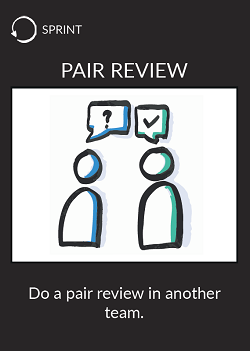
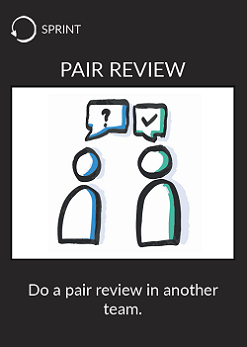
Add dev images

diff --git a/dev/Readme.md b/dev/Readme.md
@@ -1,14 +1,18 @@
 # Dev  
-* [Clean some "dead" or "crappy" code](clean-code.md)
-* [Write 5 unit tests](write-5-unit-tests.md)
-* [Write 3 BDD tests](write-3-BDD-scenarios.md)
-* [Organize a code kata session](code-kata.md)
-* [Automate an actual manual task](automate-task.md)
-* [Konami code](konami.md)
-* [Do an exercise on the coding game web site](condingame.md)
-* [Pair-op](pair-op.md)
-* [Identify & refactor legacy code](refactor-legacy-code.md)
-* [Agile swarming](swarming.md)
-* [Open source](open-source.md)
-* [Cloud](cloud.md)
-* [Fizzbuzz](fizz-buzz.md)
+[![Clean some "dead" or "crappy" code](images/clean-code.png)](clean-code.md)
+[![Write 5 unit tests](images/write-5-unit-tests.png)](write-5-unit-tests.md)
+[![Write 3 BDD scenarios](images/write-3-BDD-scenarios.png)](write-3-BDD-scenarios.md)
+[![Organize a code kata session](images/code-kata.png)](code-kata.md)
+[![Automate an actual manual task](images/automate-task.png)](automate-task.md)
+[![Konami code](images/konami.png)](konami.md)
+[![Do an exercise on the coding game web site](images/condingame.png)](condingame.md)
+[![Pair-op](images/pair-op.png)](pair-op.md)
+[![Identify & refactor legacy code](images/refactor-legacy-code.png)](refactor-legacy-code.md)
+[![Agile swarming](images/swarming.png)](swarming.md)
+[![Open source](images/open-source.png)](open-source.md)
+[![Cloud](images/cloud.png)](cloud.md)
+[![Fizzbuzz](images/fizz-buzz.png)](fizz-buzz.md)
+
+# Print the cards
+* [Recto](../cards/dev-recto.pdf)  
+* [Verso](../cards/dev-verso.pdf)

diff --git a/dev/clean-code.md b/dev/clean-code.md
@@ -1,5 +1,5 @@
 # Clean some "dead" or "crappy" code
-![Clean code](images/clean_code.png)  
+![Clean code](images/clean-code.png)  
 * Identify a "code smell"
     * A "dead code"
     * A complex piece of code / "crappy" code
